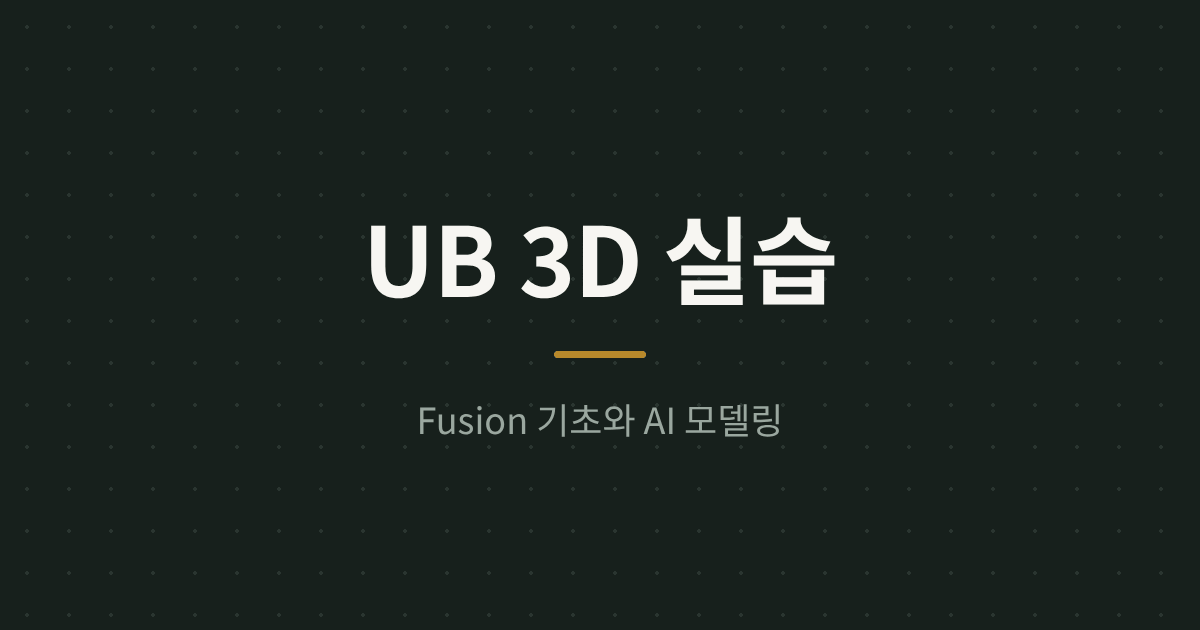
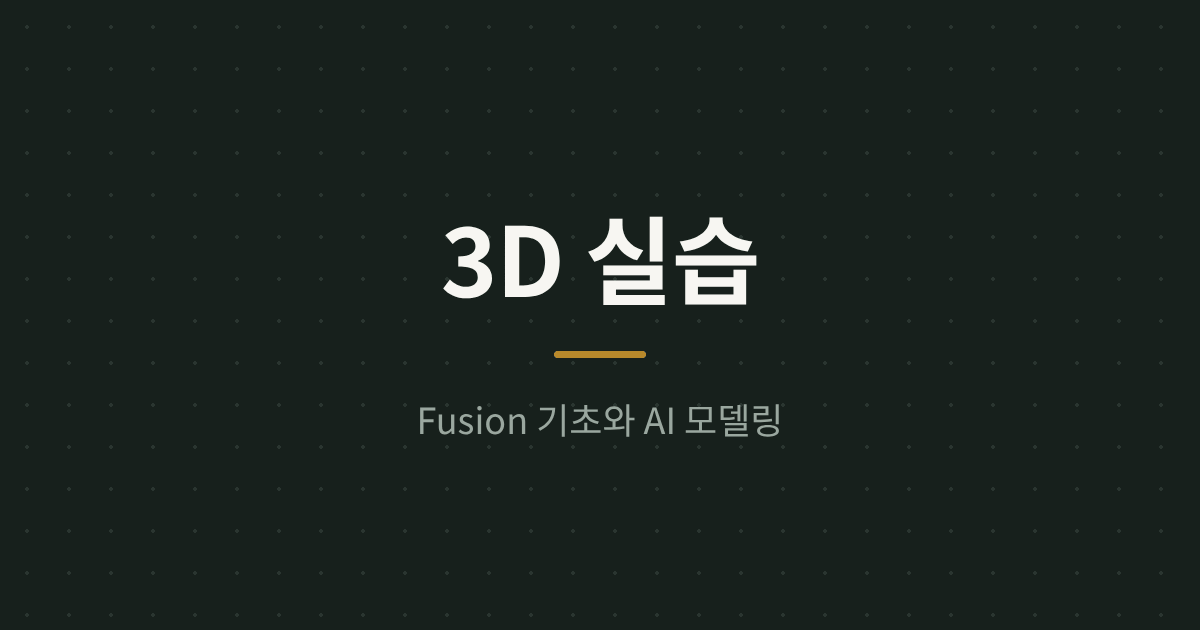
실습 페이지: UB 표기 삭제, 따라 만들기·파일 받기·디자인 종류 추가
- 하단 동아리 이름, 머리글·제목·공유 이미지의 UB 표기 삭제
- 기본 조작에 새 디자인 종류(부품, 조립품, 하이브리드) 추가
- 3번 브라켓 따라 만들기, 4번 파일 받기와 고치기 섹션 추가

Claude-Session: https://claude.ai/code/session_01TphRbb419dvuB1hPoubxfv

Changed region(s): [[0.3083, 0.3317, 0.7092, 0.4825]]

diff --git a/workshops/fusion-ai/index.html b/workshops/fusion-ai/index.html
@@ -3,10 +3,10 @@
 <head>
 <meta charset="UTF-8">
 <meta name="viewport" content="width=device-width, initial-scale=1">
-<title>Fusion 기초와 AI 모델링 · UB</title>
+<title>Fusion 기초와 AI 모델링</title>
 <meta name="description" content="Fusion 설치와 기본 조작, AI를 Fusion에 연결하는 법, AI 네 가지에게 같은 브라켓을 맡겨 본 결과를 정리했습니다">
 <meta property="og:site_name" content="KNU-EE-UB">
-<meta property="og:title" content="UB 3D 실습 — Fusion 기초와 AI 모델링">
+<meta property="og:title" content="Fusion 기초와 AI 모델링">
 <meta property="og:description" content="Fusion 설치와 기본 조작, AI 연결, AI 비교">
 <meta property="og:image" content="https://kimstructor.github.io/knueeub/assets/og/fusion-ai.png">
 <meta property="og:url" content="https://kimstructor.github.io/knueeub/workshops/fusion-ai/">
@@ -19,7 +19,7 @@
 <div class="wrap">
 
 <header>
-  <p class="kicker">UB 3D 실습 · Fusion</p>
+  <p class="kicker">3D 실습 · Fusion</p>
   <h1>Fusion 기초와 AI 모델링</h1>
   <p class="lede">Fusion을 설치하고 기본 조작을 익힌 뒤, AI에게 Fusion 모델링을 맡기는 방법과 실제로 맡겨 본 결과를 정리했습니다.</p>
 </header>
@@ -29,11 +29,13 @@
   <ul>
     <li><a href="#install"><span class="n">1</span>설치</a></li>
     <li><a href="#basics"><span class="n">2</span>기본 조작</a></li>
-    <li><a href="#connect"><span class="n">3</span>AI 연결</a></li>
-    <li><a href="#prompt"><span class="n">4</span>AI에게 요청하는 법</a></li>
-    <li><a href="#compare"><span class="n">5</span>AI 비교</a></li>
-    <li><a href="#example"><span class="n">6</span>프로젝트 예시</a></li>
-    <li><a href="#self"><span class="n">7</span>직접 설계해야 할 때</a></li>
+    <li><a href="#follow"><span class="n">3</span>브라켓 따라 만들기</a></li>
+    <li><a href="#files"><span class="n">4</span>파일 받기와 고치기</a></li>
+    <li><a href="#connect"><span class="n">5</span>AI 연결</a></li>
+    <li><a href="#prompt"><span class="n">6</span>AI에게 요청하는 법</a></li>
+    <li><a href="#compare"><span class="n">7</span>AI 비교</a></li>
+    <li><a href="#example"><span class="n">8</span>프로젝트 예시</a></li>
+    <li><a href="#self"><span class="n">9</span>직접 설계해야 할 때</a></li>
   </ul>
 </nav>
 
@@ -84,6 +86,18 @@
   </tbody>
 </table>
 
+<h3>새 디자인 종류</h3>
+<p>새 디자인을 만들 때 종류를 고릅니다. 자주 쓰는 종류는 <strong>환경설정(Preferences) → 일반</strong>에서 기본값으로 정해 둘 수 있습니다.</p>
+<table>
+  <thead><tr><th>종류</th><th>언제 고르나</th></tr></thead>
+  <tbody>
+    <tr><td>부품 디자인</td><td>부품 하나를 만들 때. 실습 브라켓처럼 출력할 부품 하나는 이걸 고릅니다.</td></tr>
+    <tr><td>조립품 디자인</td><td>따로 만든 부품 파일을 불러와 서로 맞출 때. 모델링 도구는 기본으로 꺼져 있습니다.</td></tr>
+    <tr><td>하이브리드 디자인</td><td>한 파일 안에서 여러 부품을 같이 만들고 맞출 때. 예전부터 쓰던 Fusion 방식입니다.</td></tr>
+  </tbody>
+</table>
+<p class="table-note">부품 디자인은 나중에 조립품이나 하이브리드로 바꿀 수 있습니다. 반대로는 안에 하위 부품이 없을 때만 바뀝니다.</p>
+
 <h3>모델링 흐름</h3>
 <ol>
   <li><strong>스케치 만들기</strong> → 그릴 평면이나 면을 고릅니다.</li>
@@ -100,7 +114,59 @@
 </section>
 
 <section class="section reveal">
-<h2 id="connect"><span class="sec-n">3</span>AI 연결</h2>
+<h2 id="follow"><span class="sec-n">3</span>브라켓 따라 만들기</h2>
+
+<p>아래 AI 비교에 나오는 NEMA17 모터 브라켓을 직접 만들어 봅니다. 대칭 돌출 같은 기능은 쓰지 않고 제일 기본 기능만 씁니다. 일단 끝까지 만들어 보는 게 먼저고, 다른 기능은 나중에 익히면 됩니다.</p>
+
+<ol>
+  <li><strong>부품 디자인</strong>으로 새 디자인을 만들고, <strong>XZ 평면</strong>에 스케치를 만듭니다.</li>
+  <li>선으로 L자를 그립니다. 가로 58mm, 세로 50mm, 두께 5mm입니다.</li>
+  <li>스케치를 마치고 L자를 48.5mm 돌출합니다.</li>
+  <li>세운 판의 안쪽 면에 스케치를 만들고, 바닥에서 33.75mm 높이의 판 가운데에 지름 22.3mm 원을 그립니다.</li>
+  <li>같은 중심에 31mm 중심 직사각형을 그리고, 네 모서리에 지름 3.2mm 원(볼트 구멍)을 그립니다.</li>
+  <li>스케치를 마치고 원 5개를 잘라내기로 뚫습니다.</li>
+  <li>4번 스케치를 다시 편집해서 판 가장자리에 폭 3mm 테두리를 그리고 2mm 돌출합니다.</li>
+  <li>옆면(L자가 보이는 면)에 L자 안쪽을 채우는 삼각형을 그리고 3mm 돌출합니다. 반대쪽 옆면도 똑같이 합니다.</li>
+  <li>프로파일에 닿는 바닥면에 스케치를 만들고, 중심 지름 원으로 가운데를 찾아 폭 6.5mm 직사각형을 길게 그립니다.</li>
+  <li>T너트 자리로 길이 11mm 중심 직사각형 2개를 그리고, 그 안에 지름 6.3mm 원(볼트 구멍)을 그립니다.</li>
+  <li>원은 잘라내기로 뚫고, 11mm 자리를 뺀 폭 6.5mm 부분은 3.5mm 돌출합니다.</li>
+</ol>
+<p class="table-note">치수는 아래 "AI에게 요청하는 법"의 채운 예시와 같습니다.</p>
+</section>
+
+<section class="section reveal">
+<h2 id="files"><span class="sec-n">4</span>파일 받기와 고치기</h2>
+
+<p>다른 사람이 만든 모델은 아래 사이트에서 받을 수 있습니다. 모델 페이지의 다운로드 버튼으로 받아 슬라이서에서 열면 됩니다.</p>
+<ul class="spec">
+  <li><span class="k"><a href="https://makerworld.com">MakerWorld</a></span><span class="v">뱀부랩이 운영. Bambu Studio에서 바로 열 수 있습니다</span></li>
+  <li><span class="k"><a href="https://www.printables.com">Printables</a></span><span class="v">프루사가 운영</span></li>
+  <li><span class="k"><a href="https://www.thingiverse.com">Thingiverse</a></span><span class="v">오래된 모델 공유 사이트</span></li>
+</ul>
+
+<h3>파일 형식</h3>
+<table class="wrap-first">
+  <thead><tr><th>형식</th><th>안에 든 것</th><th>Fusion에서 고치기</th></tr></thead>
+  <tbody>
+    <tr><td>STL, OBJ</td><td>삼각형 면(메쉬)만</td><td>어려움</td></tr>
+    <tr><td>3MF</td><td>메쉬. 색이나 출력 설정이 같이 들어 있기도 함</td><td>어려움</td></tr>
+    <tr><td>STEP</td><td>솔리드</td><td>면을 밀고 당기거나 구멍을 더하는 정도는 쉬움</td></tr>
+    <tr><td>F3D</td><td>Fusion 원본(스케치, 타임라인 포함)</td><td>치수까지 그대로 고칠 수 있음</td></tr>
+  </tbody>
+</table>
+
+<h3>STL을 고쳐야 할 때</h3>
+<p>STL은 삼각형 면의 덩어리라서, 구멍 지름이나 길이를 숫자로 바꿀 수 없습니다. 고칠 일이 있으면 먼저 STEP이나 F3D 파일도 같이 올라와 있는지 확인하고, 없으면 아래 방법을 씁니다.</p>
+<ul>
+  <li><strong>크기 조절, 자르기, 글자나 구멍 더하기:</strong> Fusion까지 갈 필요 없이 슬라이서에서 됩니다.</li>
+  <li><strong>Fusion에서 솔리드로 바꾸기:</strong> <strong>삽입 → 메쉬 삽입</strong>으로 불러온 뒤 <strong>메쉬 탭 → 수정 → 메쉬 변환(Convert Mesh)</strong>을 씁니다. 각진 부품은 Prismatic 방법으로 바꾸면 평면과 원통 면이 하나로 합쳐져서 고칠 만해집니다. 곡면이 많은 모양은 삼각형이 그대로 면으로 남아서 무겁고 고치기 어렵습니다. Prismatic은 개인용 라이선스에서는 안 됩니다.</li>
+  <li><strong>다시 그리기:</strong> 치수를 재서 직접 다시 그리는 게 빠를 때가 많습니다. 메쉬를 불러와 옆에 두고 보면서 그리면 됩니다.</li>
+</ul>
+<p>STL을 STEP으로 바꿔 주는 다른 프로그램이나 사이트도 원리는 같아서, 삼각형을 면으로 바꿀 뿐 원래 치수를 되살리지는 못합니다.</p>
+</section>
+
+<section class="section reveal">
+<h2 id="connect"><span class="sec-n">5</span>AI 연결</h2>
 
 <p>Fusion 안에 들어 있는 MCP 서버를 켜고 AI 데스크톱 앱을 연결하면, 말로 지시한 내용을 AI가 Fusion에서 직접 모델링합니다. chatgpt.com, claude.ai 같은 웹 채팅에서는 바로 연결되지 않습니다.</p>
 
@@ -179,7 +245,7 @@
 </section>
 
 <section class="section reveal">
-<h2 id="prompt"><span class="sec-n">4</span>AI에게 요청하는 법</h2>
+<h2 id="prompt"><span class="sec-n">6</span>AI에게 요청하는 법</h2>
 
 <p>AI에게 치수만 던져 주면 숫자는 맞아도 쓸 수 없는 모양이 나옵니다. 아래 틀로 <strong>무엇에 쓰는지</strong>까지 알려 주고, 만들기 전에 질문하게 하면 결과가 훨씬 좋아집니다.</p>
 
@@ -230,7 +296,7 @@ Fusion MCP 도구로 새 디자인에 만들어 줘. 프루사 MK4로 PLA 출력
 </section>
 
 <section class="section reveal">
-<h2 id="compare"><span class="sec-n">5</span>AI 비교</h2>
+<h2 id="compare"><span class="sec-n">7</span>AI 비교</h2>
 
 <p>ChatGPT, Gemini, Autodesk Assistant에게 위의 채운 예시로 같은 NEMA17 모터 브라켓을 맡겼고(ChatGPT는 참고 사진도 넣음), 직접 설계한 것과 Claude 것까지 함께 출력했습니다. Claude 것은 운영진이 여러 번 고쳐 달라고 해서 나온 최종본입니다. <strong>모든 AI가 구멍 간격과 축 높이 같은 숫자는 맞췄습니다.</strong> 차이는 숫자 밖의 판단, 즉 볼트 머리가 들어갈 자리, 모터 방향, 서포트에서 났습니다.</p>
 
@@ -318,7 +384,7 @@ Fusion MCP 도구로 새 디자인에 만들어 줘. 프루사 MK4로 PLA 출력
 </section>
 
 <section class="section reveal">
-<h2 id="example"><span class="sec-n">6</span>프로젝트 예시</h2>
+<h2 id="example"><span class="sec-n">8</span>프로젝트 예시</h2>
 
 <p>손떨림이 있는 사람이 직접 글씨를 쓰도록 돕는 탁상형 장치를 AI와 함께 설계한 과정입니다. 무엇을 AI에게 맡기고 무엇을 직접 정했는지를 중심으로 정리했습니다.</p>
 
@@ -395,7 +461,7 @@ Fusion MCP 도구로 새 디자인에 만들어 줘. 프루사 MK4로 PLA 출력
 </section>
 
 <section class="section reveal">
-<h2 id="self"><span class="sec-n">7</span>직접 설계해야 할 때</h2>
+<h2 id="self"><span class="sec-n">9</span>직접 설계해야 할 때</h2>
 
 <p>AI에게 맡기더라도 직접 설계할 줄은 알아야 합니다. AI가 만든 모델이 맞는지 판단하고 틀린 곳을 원인으로 짚어 고치게 하려면, 그 부품을 직접 그릴 수 있을 만큼 알아야 하기 때문입니다.</p>
 
@@ -414,8 +480,7 @@ Fusion MCP 도구로 새 디자인에 만들어 줘. 프루사 MK4로 PLA 출력
 </section>
 
 <footer>
-  제작일 2026.11.09<br>
-  경북대학교 하드웨어 제작 동아리 UB
+  제작일 2026.11.09
 </footer>
 
 </div>
